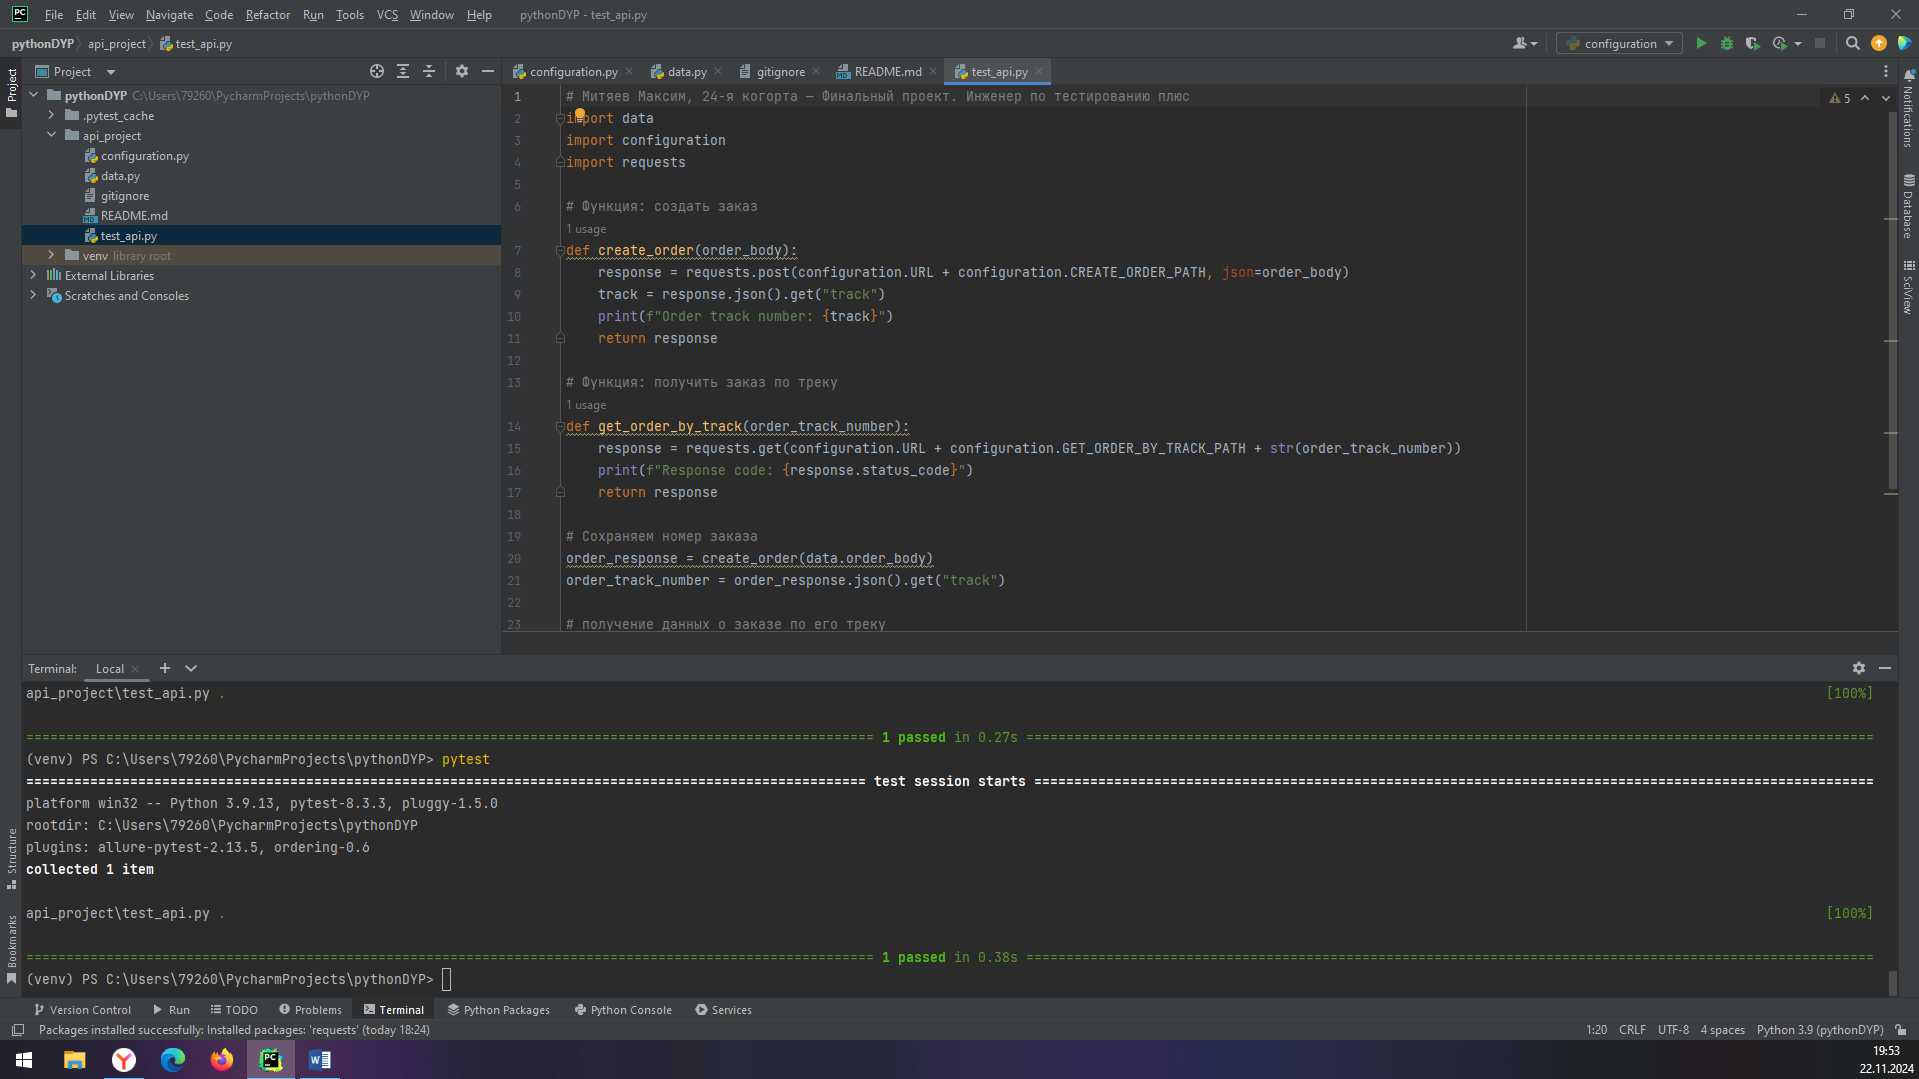
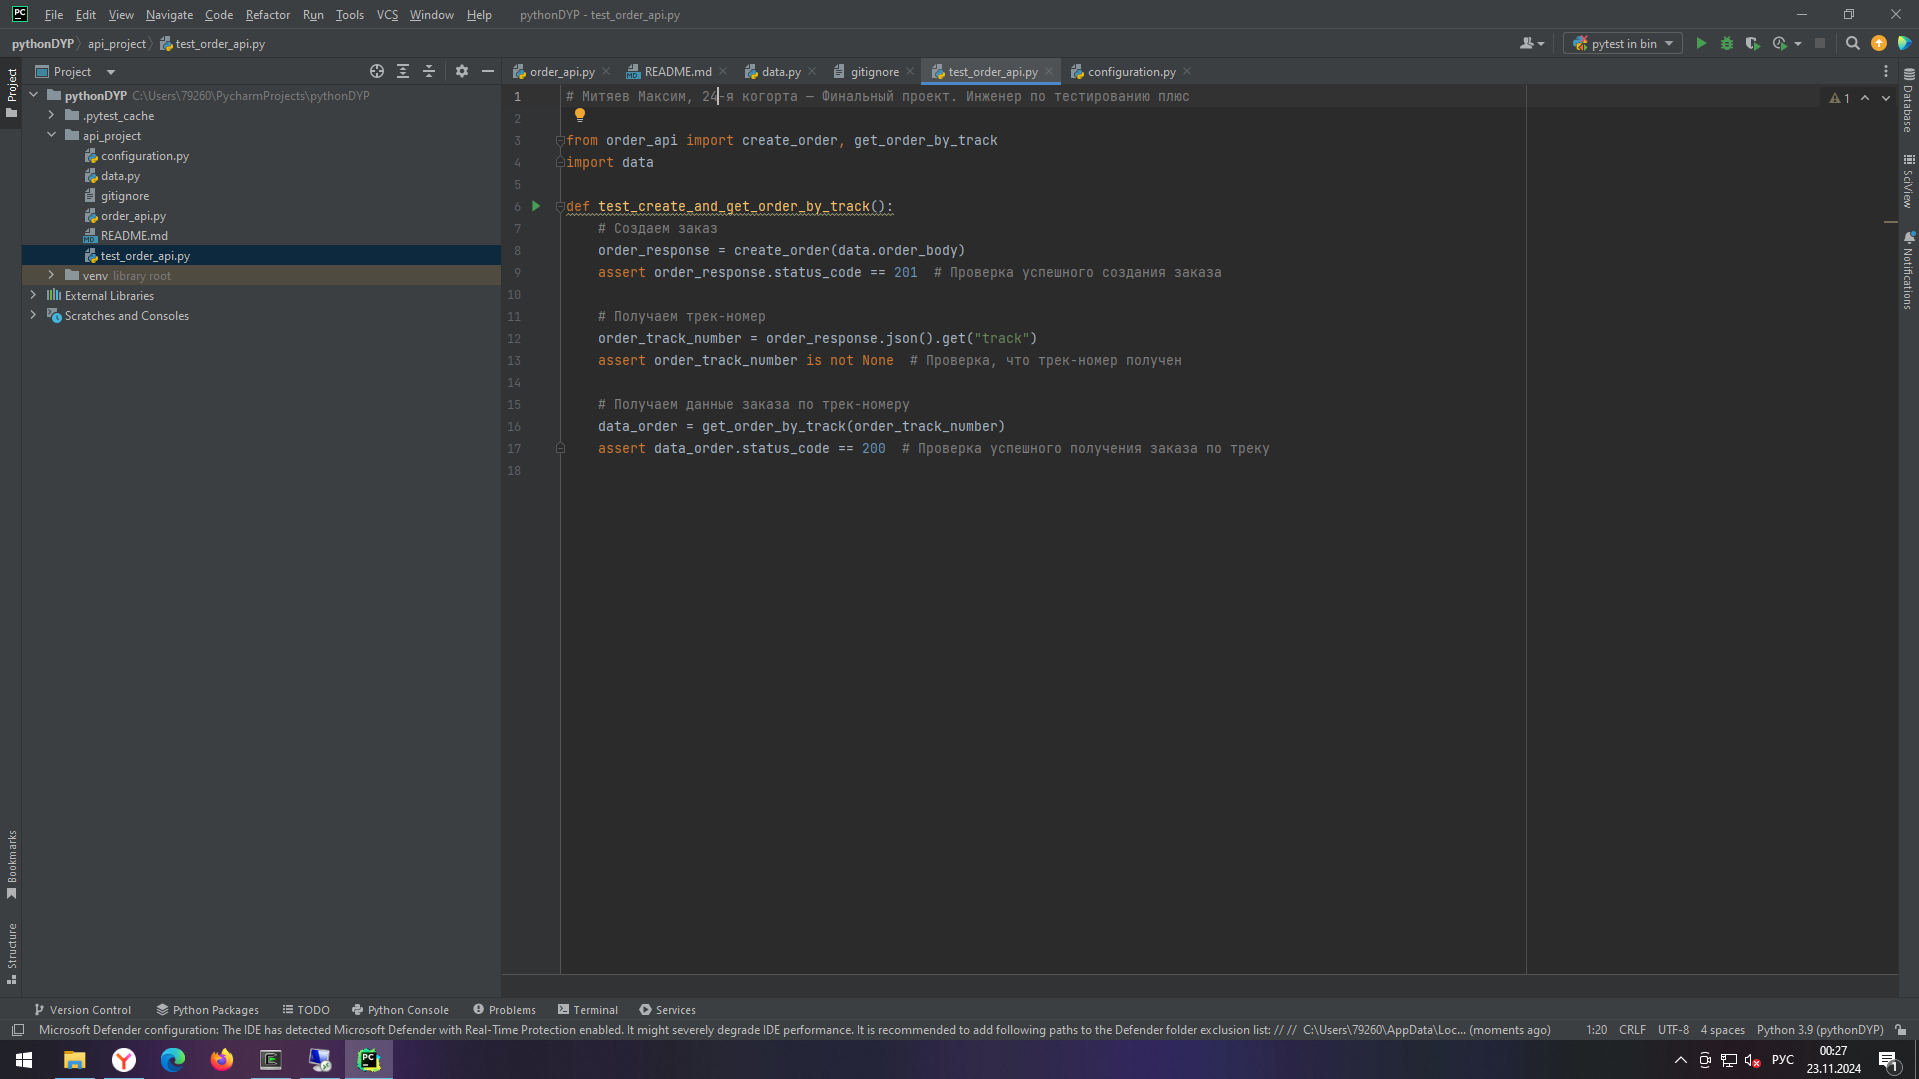
File update

diff --git a/test_order_api.py b/test_order_api.py
@@ -1,0 +1,17 @@
+# Митяев Максим, 24-я когорта — Финальный проект. Инженер по тестированию плюс
+
+from order_api import create_order, get_order_by_track
+import data
+
+def test_create_and_get_order_by_track():
+    # Создаем заказ
+    order_response = create_order(data.order_body)
+    assert order_response.status_code == 201  # Проверка успешного создания заказа
+
+    # Получаем трек-номер
+    order_track_number = order_response.json().get("track")
+    assert order_track_number is not None  # Проверка, что трек-номер получен
+
+    # Получаем данные заказа по трек-номеру
+    data_order = get_order_by_track(order_track_number)
+    assert data_order.status_code == 200  # Проверка успешного получения заказа по треку

diff --git a/order_api.py b/order_api.py
@@ -1,0 +1,12 @@
+import configuration
+import requests
+
+def create_order(order_body):  #Функция для создания нового заказа
+    response = requests.post(configuration.URL + configuration.CREATE_ORDER_PATH, json=order_body)
+    response.raise_for_status()
+    return response
+
+def get_order_by_track(order_track_number):  #Функция для получения информации о заказе по его трек-номеру
+    response = requests.get(configuration.URL + configuration.GET_ORDER_BY_TRACK_PATH + str(order_track_number))
+    response.raise_for_status()
+    return response

diff --git a/configuration.py b/configuration.py
@@ -1,3 +1,3 @@
-URL = "https://3f87109b-f032-45a0-b597-93467cdea1a1.serverhub.praktikum-services.ru"
+URL = "https://a8b99d0c-c03d-41ef-96f1-1ddd38d6d2fc.serverhub.praktikum-services.ru"
 CREATE_ORDER_PATH = "/api/v1/orders"
 GET_ORDER_BY_TRACK_PATH = "/api/v1/orders/track?t="

diff --git a/README.md b/README.md
@@ -3,15 +3,19 @@
 Проект направлен на автоматизацию проверки API для создания и отслеживания заказов.
 
 ## Необходимые условия
+
 - Python 3.6+
 - Установленные пакеты: pytest, requests
 
 ## Структура проекта
+
 - configuration.py: URL и пути для тестового стенда.
 - data.py: Данные для создания заказа.
-- sender_stand_request.py: Функции и описания тестов.
+- order_api.py: Функции для работы с API.
+- test_order_api.py: Тесты для проверки создания и получения заказа.
 
 ## Шаги автотеста
+
 1. Отправить запрос на создание заказа.
 2. Сохранить трек-номер заказа.
 3. Получить заказ по трек-номеру.
@@ -22,26 +26,22 @@
 ### Установка
 
 1. Клонируйте репозиторий:
-   
+   git clone https://github.com/your/repository.git
 2. Создайте и активируйте виртуальную среду:
 
-   python -m venv venv
-
-На Windows:
+   На Windows: python -m venv venv
    .\venv\Scripts\activate
-
-На macOS/Linux:
+   На macOS/Linux: python3 -m venv venv
    source venv/bin/activate
-   
 
 3. Установите зависимости:
-
-   pip install pytest requests
-     
+      pip install pytest requests
+   
 ### Запуск тестов
 
 Запустите тесты командой:
+   pytest -s
+#### Опция -s покажет все выводы в терминале.
 
-pytest -s
-
-Опция -s покажет все выводы в терминале.
+   
+   
